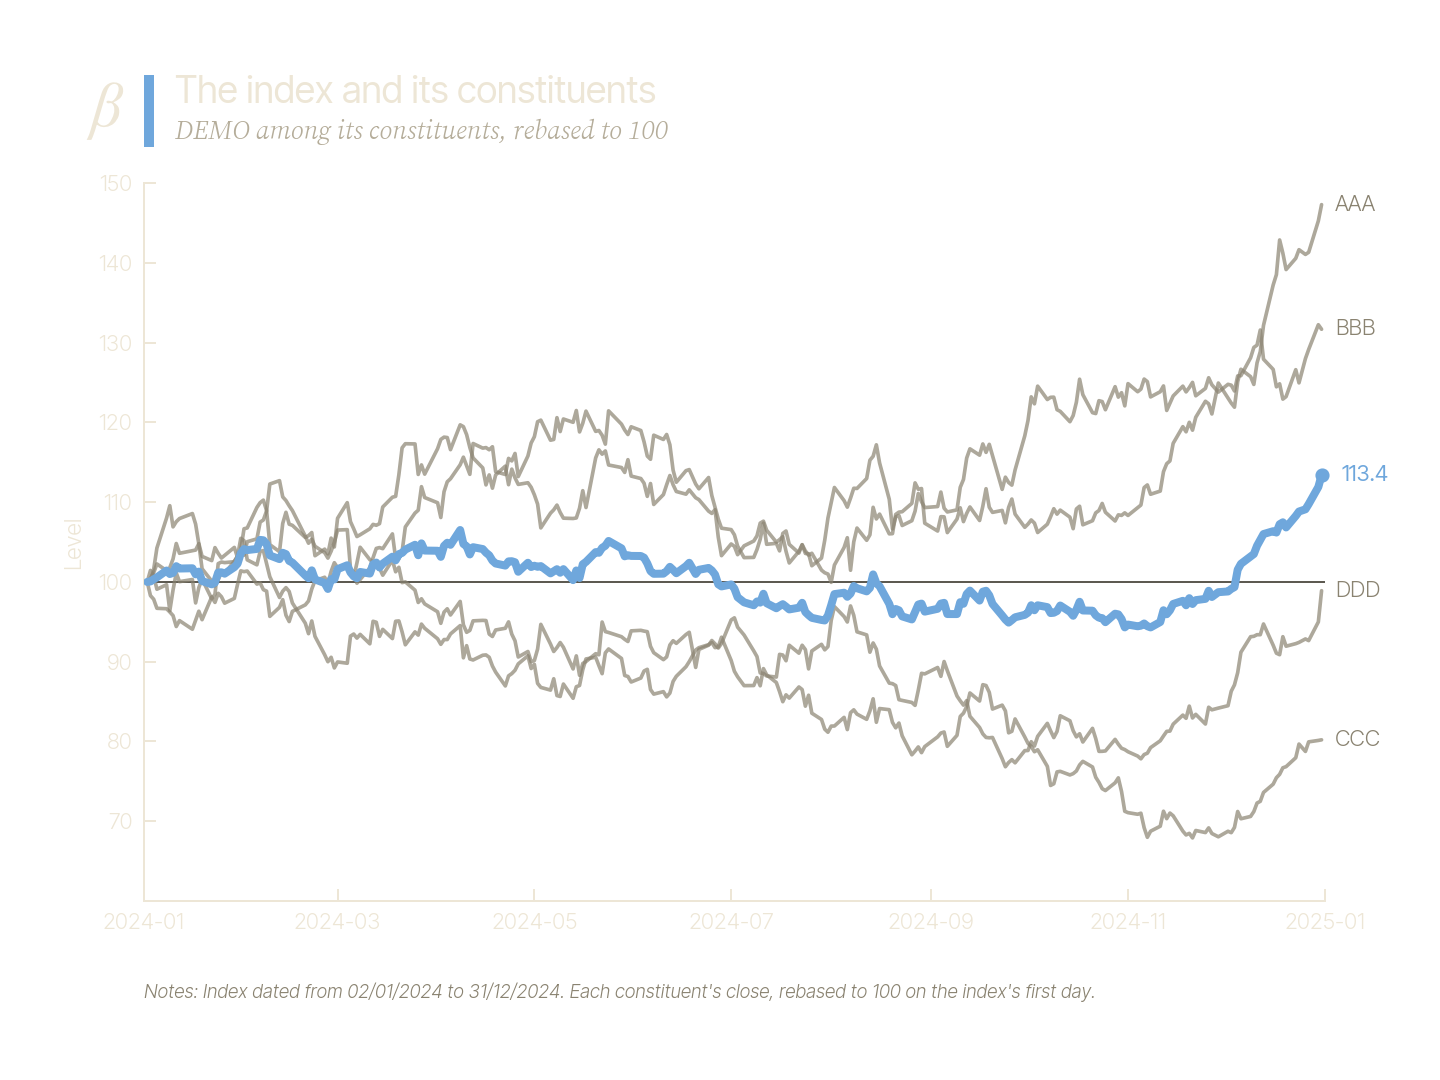
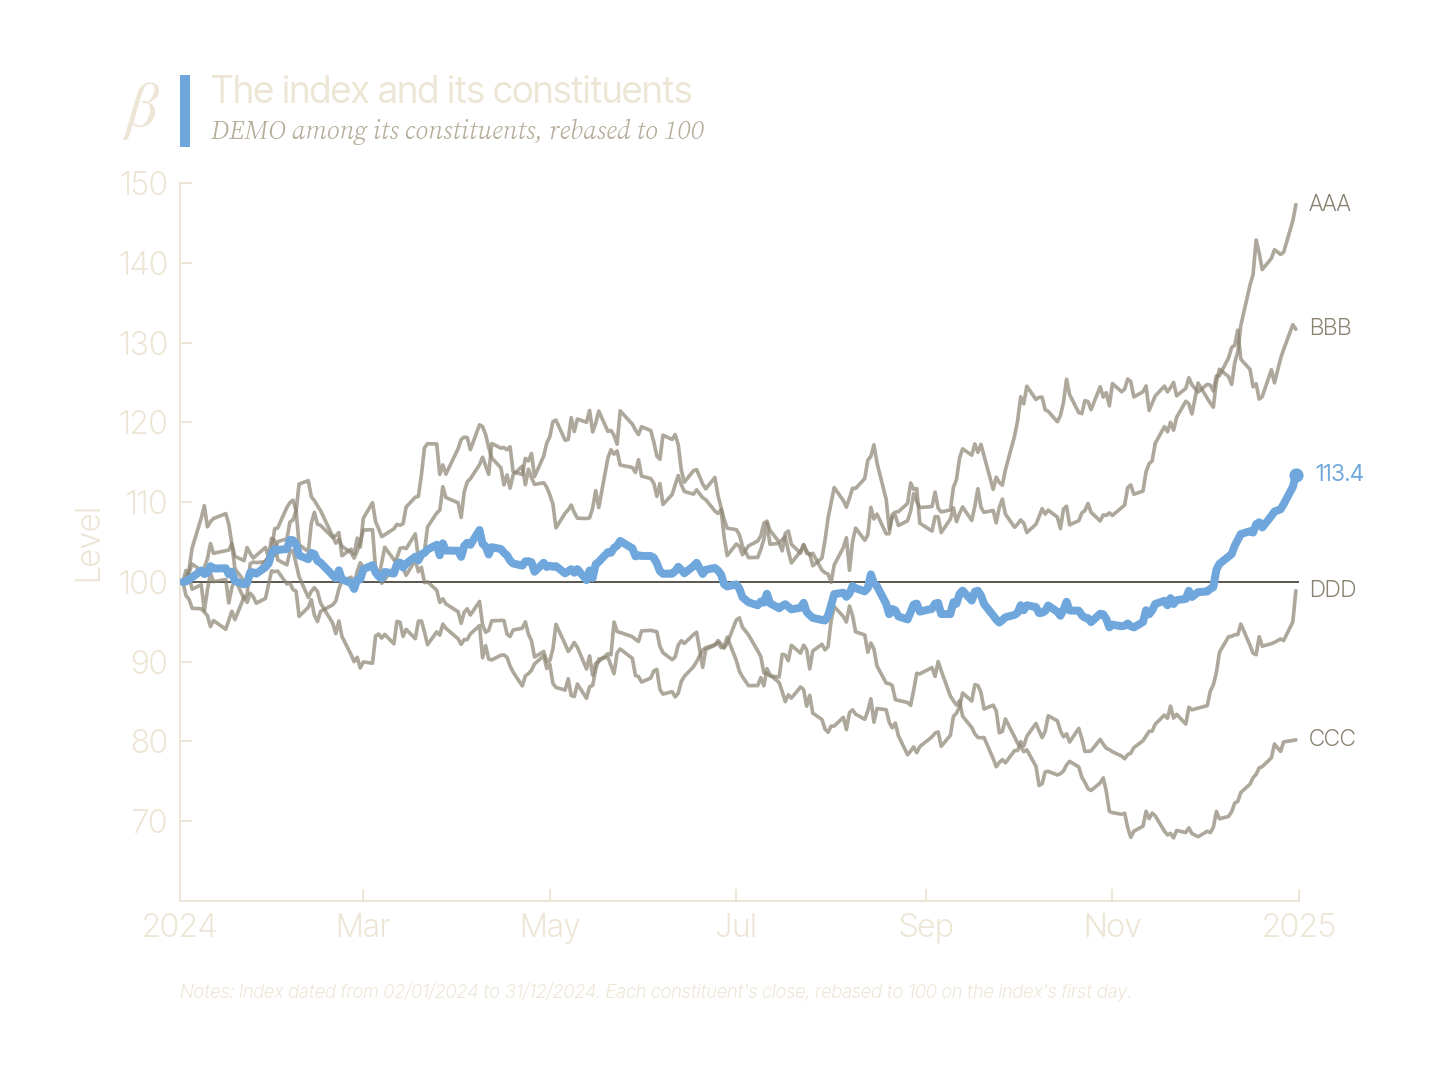
[BN-295] Larger axis text, shorter date labels and margins that fit the labels
- Axis titles 8pt and tick labels 7.8pt as drawn; the legend and the
  labels on lines (last value, constituent names, cap, Sharpe ratio) share
  a new LINE_LABEL_SIZE of 5.5pt.
- The notes are in the title's colour, like the chart's other labels.
- Date axes use matplotlib's concise converter: the year at each January
  and the month between, which no longer crowd at the larger size.
- scales.fit_sides widens a framed chart's side margins, measured with the
  figure's renderer, until its tick labels, axis titles, end values and
  colour bar labels sit inside the figure; the heading follows the axis.
- The performance chart aligns its two axis titles.
- Tests for each in tests/test_plot_frame.py; changelog, charts page and
  the quickstart images updated. Image baselines follow from the workflow.

Closes #312

diff --git a/tests/test_plot_frame.py b/tests/test_plot_frame.py
@@ -275,3 +275,49 @@ class TestCorrelationShading:
 
         assert all(tick.tick1line.get_markersize() == 0
                    for tick in ax.xaxis.get_major_ticks())
+
+
+class TestReadableText:
+    """BN-295."""
+
+    def test_dates_are_the_year_and_the_month(self,
+                                              index_result):
+        ax = index_result.plot.level()
+        ax.figure.canvas.draw()
+        labels = [label.get_text() for label in ax.get_xticklabels()]
+
+        assert labels[0] == "2023"
+        assert "Apr" in labels
+
+    @pytest.mark.parametrize("chart", ["performance", "correlation", "level"])
+    def test_nothing_runs_past_the_figure(self,
+                                          chart,
+                                          index_result,
+                                          backtest,
+                                          risk_model):
+        draw = {"performance": backtest.plot.performance,
+                "correlation": risk_model.plot.correlation,
+                "level": index_result.plot.level}[chart]
+        figure = draw().figure
+        figure.canvas.draw()
+        renderer = figure.canvas.get_renderer()
+
+        for axes in figure.get_axes():
+            box = axes.get_tightbbox(renderer)
+            assert box.x0 >= 0
+            assert box.x1 <= figure.bbox.width
+
+    def test_the_notes_are_in_the_labels_colour(self,
+                                                index_result):
+        notes = text_with(index_result.plot.level().figure, "beacon-notes")
+
+        assert to_hex(notes.get_color()) == colour("text-primary", LIGHT)
+
+    def test_the_legend_and_line_labels_share_a_size(self,
+                                                     index_result):
+        ax = index_result.plot.level(benchmark=dataset.prices()["CCC"].loc[:END])
+        sizes = {text.get_fontsize() for text in ax.get_legend().get_texts()}
+        value = next(text for text in ax.texts if text.get_text().replace(".", "").isdigit())
+
+        assert sizes == {style.LINE_LABEL_SIZE}
+        assert value.get_fontsize() == style.LINE_LABEL_SIZE

diff --git a/src/beacon/plot/scales.py b/src/beacon/plot/scales.py
@@ -11,6 +11,10 @@ bar and the mark's own axes are left as they are.
 Where both axes of a chart measure, their first ticks meet at the corner, and
 the lowest label on the y axis would sit on top of the first on the x axis,
 so that one label is left blank.
+
+A framed chart's side margins widen to fit what it draws, so wide tick
+labels, an axis title or a value marked at a line's end stay inside the
+figure.
 """
 import math
 from typing import Any
@@ -138,3 +142,44 @@ def _has(ticks: list[float],
          value: float) -> bool:
     """Whether *value* is one of *ticks*."""
     return any(math.isclose(tick, value, rel_tol=0, abs_tol=1e-6) for tick in ticks)
+
+
+def fit_sides(figure: Any,
+              margin: float) -> bool:
+    """Widen the figure's side margins until nothing a chart draws (tick
+    labels, axis titles, a value marked at a line's end, a colour bar's
+    labels) runs past *margin* inches from either edge.
+
+    Measured with the figure's renderer, which every raster backend has; a
+    canvas that cannot give one keeps the style's margins.
+
+    Returns:
+        bool: Whether the margins moved.
+    """
+    get_renderer = getattr(figure.canvas, "get_renderer", None)
+
+    if get_renderer is None:
+        return False
+
+    renderer = get_renderer()
+    width = float(figure.get_size_inches()[0]) * float(figure.dpi)
+    panels = [axes for axes in figure.get_axes() if axes.get_label() != MARK_LABEL]
+    boxes = [box for box in (axes.get_tightbbox(renderer) for axes in panels)
+             if box is not None]
+
+    if not boxes:
+        return False
+
+    edge = margin * float(figure.dpi)
+    left_over = edge - min(box.x0 for box in boxes)
+    right_over = max(box.x1 for box in boxes) - (width - edge)
+    params = figure.subplotpars
+    left = params.left + max(left_over, 0.0) / width
+    right = params.right - max(right_over, 0.0) / width
+
+    if math.isclose(left, params.left) and math.isclose(right, params.right):
+        return False
+
+    figure.subplots_adjust(left=left, right=right)
+
+    return True

diff --git a/src/beacon/plot/frame.py b/src/beacon/plot/frame.py
@@ -49,7 +49,7 @@ from .legend import LegendPlan, text_width  # noqa: E402
 from .legend import place as place_legend  # noqa: E402
 from .legend import plan as legend_plan  # noqa: E402
 from .mark import beta_outline  # noqa: E402
-from .scales import MARK_LABEL, end_on_ticks  # noqa: E402
+from .scales import MARK_LABEL, end_on_ticks, fit_sides  # noqa: E402
 from .style import SCALE  # noqa: E402
 from .themes import Theme, for_background, of_figure, remember, theme_named  # noqa: E402
 
@@ -254,7 +254,7 @@ def finish(ax: Axes,
 
     if notes:
         ax.text(0.0, note_offset, notes, transform=ax.transAxes,
-                fontsize=7 * SCALE, color=ink(ax, "text-muted"), va="top",
+                fontsize=7 * SCALE, color=ink(ax, "text-primary"), va="top",
                 gid="beacon-notes")
 
     return ax
@@ -339,6 +339,7 @@ def frame(ax: Axes,
         floor = MARGIN_INCHES + len(lines) * NOTES_SIZE * NOTES_LINE_HEIGHT / 72.0
         figure.subplots_adjust(top=(band - PLOT_GAP_INCHES) / height,
                                bottom=(floor + NOTES_GAP_INCHES + bottom_room) / height)
+        fit_sides(figure, MARGIN_INCHES)
         left, right = _plot_edges(ax, width)
 
         if notes:
@@ -385,7 +386,7 @@ def frame(ax: Axes,
         figure.text(left / width, floor / height,
                     "\n".join(lines), fontfamily=NOTES_FONT, fontsize=NOTES_SIZE,
                     fontstyle="italic", fontweight=CHART_WEIGHT,
-                    color=theme.colour("text-muted"),
+                    color=theme.colour("text-primary"),
                     ha="left", va="top", linespacing=NOTES_LINE_HEIGHT,
                     gid="beacon-notes")
 

diff --git a/src/beacon/plot/accessors.py b/src/beacon/plot/accessors.py
@@ -168,7 +168,7 @@ class IndexPlots(ChartMethods):
             ax.annotate(name, xy=(rebased.index[-1], rebased.iloc[-1]),
                         xytext=(beacon_style.scaled(4), 0),
                         textcoords="offset points", va="center",
-                        fontsize=beacon_style.TICK_LABEL_SIZE,
+                        fontsize=beacon_style.LINE_LABEL_SIZE,
                         color=_ink(ax, "text-muted"))
 
         ax.plot(levels.index, levels.to_numpy(), color=_ink(ax, "accent"),
@@ -234,7 +234,7 @@ class IndexPlots(ChartMethods):
             ax.annotate(f"cap {cap:.1%}", xy=(cap, len(labels) - 0.5),
                         xytext=(beacon_style.scaled(4), 0),
                         textcoords="offset points",
-                        fontsize=beacon_style.TICK_LABEL_SIZE, color=_ink(ax, "danger"),
+                        fontsize=beacon_style.LINE_LABEL_SIZE, color=_ink(ax, "danger"),
                         va="top")
 
         ax.xaxis.set_major_formatter(lambda value, _: f"{value:.0%}")
@@ -307,6 +307,9 @@ class BacktestPlots(ChartMethods):
         # 2.5% step to "-2%" and "-8%".
         lower.yaxis.set_major_formatter(PercentFormatter(1.0))
         lower.set_ylabel("Drawdown")
+        # The two panels' axis titles in one column, whatever their labels'
+        # widths.
+        figure.align_ylabels([upper, lower])
         lower.grid(visible=False)
 
         return _finish(upper,

diff --git a/src/beacon/plot/style.py b/src/beacon/plot/style.py
@@ -67,8 +67,13 @@ def scaled(value: float) -> float:
 # The chart's small text, in points as drawn rather than scaled, so it stays
 # readable whatever SCALE is: the axis titles, and the tick labels and legend
 # entries, which share a size.
-AXIS_TITLE_SIZE = 5.5
-TICK_LABEL_SIZE = 5.3
+AXIS_TITLE_SIZE = 8.0
+TICK_LABEL_SIZE = 7.8
+
+# Labels drawn on the chart itself (the value at a line's end, the names at
+# the constituents' ends, the cap, the Sharpe ratio) and the legend's, smaller
+# than the axes' so they annotate rather than compete.
+LINE_LABEL_SIZE = 5.5
 
 # Line weights, in points. The primary series is deliberately heavier than the
 # grid and the benchmark so the eye lands on it first.
@@ -222,11 +227,16 @@ def style_dict(theme: str = LIGHT) -> dict[str, Any]:
         "legend.scatterpoints": 1,
 
         "legend.frameon": False,
-        "legend.fontsize": TICK_LABEL_SIZE,
+        "legend.fontsize": LINE_LABEL_SIZE,
         "legend.labelcolor": ink["text-primary"],
 
         # No padding beyond the data: each measuring axis is then ended on its
         # outermost ticks (beacon.plot.frame.end_on_ticks).
+        # Dates as the year at each January and the month between, so a
+        # two-year axis reads "2023, Apr, Jul, Oct, 2024" rather than
+        # crowding nine full dates.
+        "date.converter": "concise",
+
         "axes.xmargin": 0.0,
         "axes.ymargin": 0.0,
 

diff --git a/src/beacon/plot/analysis_charts.py b/src/beacon/plot/analysis_charts.py
@@ -142,7 +142,7 @@ class OptimisationPlots(ChartMethods):
             ax.annotate(f"Sharpe {tangency.sharpe_ratio:.2f}",
                         xy=(tangency.volatility, tangency.expected_return or 0.0),
                         xytext=(beacon_style.scaled(8), beacon_style.scaled(-10)),
-                        textcoords="offset points", fontsize=beacon_style.TICK_LABEL_SIZE,
+                        textcoords="offset points", fontsize=beacon_style.LINE_LABEL_SIZE,
                         color=tangency_ink, fontweight="bold")
 
         ax.xaxis.set_major_formatter(lambda value, _: f"{value:.0%}")

diff --git a/src/beacon/plot/drawing.py b/src/beacon/plot/drawing.py
@@ -99,7 +99,7 @@ def _mark_last(ax: Axes,
     ax.annotate(f"{series.iloc[-1]:,.1f}",
                 xy=(series.index[-1], series.iloc[-1]),
                 xytext=(beacon_style.scaled(6), 0), textcoords="offset points",
-                va="center", fontsize=beacon_style.TICK_LABEL_SIZE, color=ink,
+                va="center", fontsize=beacon_style.LINE_LABEL_SIZE, color=ink,
                 fontweight="bold")
 
 

diff --git a/CHANGELOG.md b/CHANGELOG.md
@@ -17,7 +17,7 @@ Before 1.0, a breaking change raises the middle number, as in 0.1 to 0.2.
 
 ### Changed
 
-- Charts are designed 6in wide and drawn at 80% of their size, with fixed small text: 5.5pt axis titles, 5.3pt tick labels, legends and line labels, and 4.5pt notes. The time series are 3:2.
+- Charts are designed 6in wide and drawn at 80% of their size, with fixed text sizes: 8pt axis titles, 7.8pt tick labels, 5.5pt legends and labels on lines, and 4.5pt notes, all in the title's colour. The time series are 3:2. Date axes label the year at each January and the month between, and a chart's side margins widen to fit its labels.
 - Every axis that measures something ends on its outermost ticks, and where both axes measure, the lowest y label is left blank so it does not sit on the first x label.
 - The level charts (`level`, `constituents`, `performance` and `compare`) have no gridlines and draw one line at 100. The bar charts and the frontier have no gridlines either, with a line at zero where a bar can fall below it. Ticks point inwards, and the axes are thinner and in the title's colour.
 - The frontier's x axis is labelled, and its tangency point is a deep blue rather than orange. The correlation heatmap has no tick marks, and its colour bar is labelled at each end.

diff --git a/docs/concepts/charts.md b/docs/concepts/charts.md
@@ -155,7 +155,10 @@ the first label of the x axis. The level charts (`level`, `constituents`,
 where every series starts, so a glance says whether it has gained or lost;
 the bar charts and the frontier have no gridlines either, with a line at zero
 where a bar can fall below it. The ticks point inwards, and the axes, their
-labels and the legend are in the title's colour.
+labels, the legend and the notes are in the title's colour. Date axes label
+the year at each January and the month between ("2023, Apr, Jul, Oct,
+2024"), and a chart's side margins widen to fit its labels, so nothing runs
+off its edges.
 
 The fonts (Inter Tight and Source Serif 4) ship with py-beacon under the SIL
 Open Font License, so a chart looks the same on every machine without
